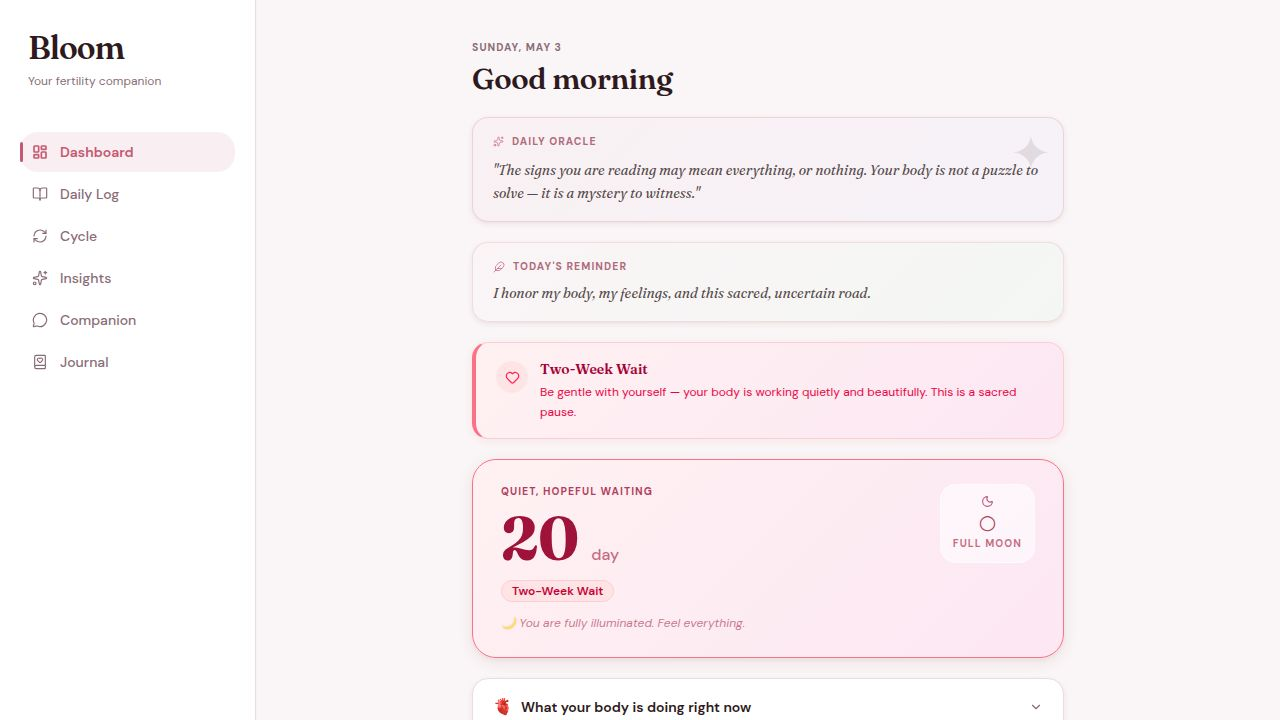
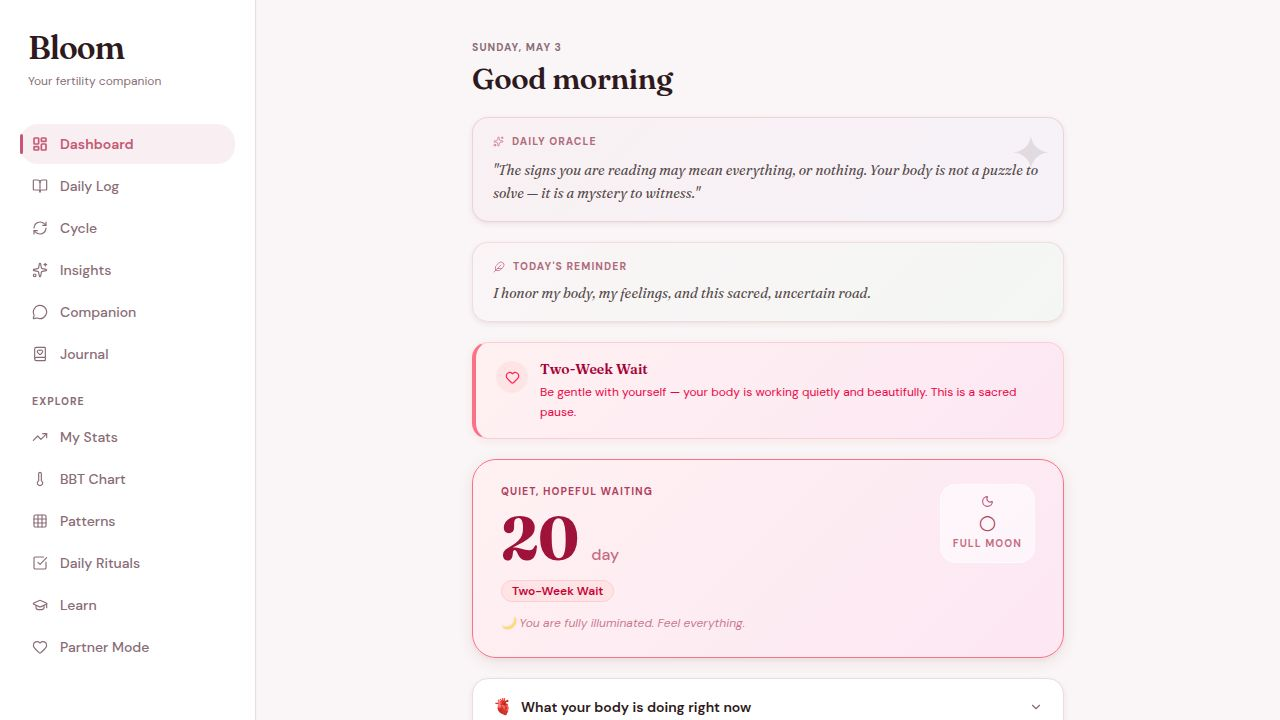
Fix deployment error by adjusting environment variable handling
Update Vite configuration to conditionally require PORT and BASE_PATH environment variables, ensuring successful builds for deployment.

Replit-Commit-Author: Agent
Replit-Commit-Session-Id: f5c8a671-0bbd-4917-9af3-7160bced6363
Replit-Commit-Checkpoint-Type: full_checkpoint
Replit-Commit-Event-Id: 995af0a0-1fa9-4c69-a334-57bf5caa382c
Replit-Commit-Screenshot-Url: https://storage.googleapis.com/screenshot-production-us-central1/c79f92dd-c2bd-4efc-93df-7ed2ac3b1d47/f5c8a671-0bbd-4917-9af3-7160bced6363/0AbXOEb
Replit-Helium-Checkpoint-Created: true

diff --git a/artifacts/fertility-companion/vite.config.ts b/artifacts/fertility-companion/vite.config.ts
@@ -4,26 +4,19 @@ import tailwindcss from "@tailwindcss/vite";
 import path from "path";
 import runtimeErrorOverlay from "@replit/vite-plugin-runtime-error-modal";
 
+const isBuild = process.argv.includes("build");
+
 const rawPort = process.env.PORT;
+const port = rawPort ? Number(rawPort) : 3000;
 
-if (!rawPort) {
-  throw new Error(
-    "PORT environment variable is required but was not provided.",
-  );
+if (!isBuild && (!rawPort || Number.isNaN(port) || port <= 0)) {
+  throw new Error("PORT environment variable is required for dev server but was not provided.");
 }
 
-const port = Number(rawPort);
+const basePath = process.env.BASE_PATH ?? "/";
 
-if (Number.isNaN(port) || port <= 0) {
-  throw new Error(`Invalid PORT value: "${rawPort}"`);
-}
-
-const basePath = process.env.BASE_PATH;
-
-if (!basePath) {
-  throw new Error(
-    "BASE_PATH environment variable is required but was not provided.",
-  );
+if (!isBuild && !process.env.BASE_PATH) {
+  throw new Error("BASE_PATH environment variable is required for dev server but was not provided.");
 }
 
 export default defineConfig({